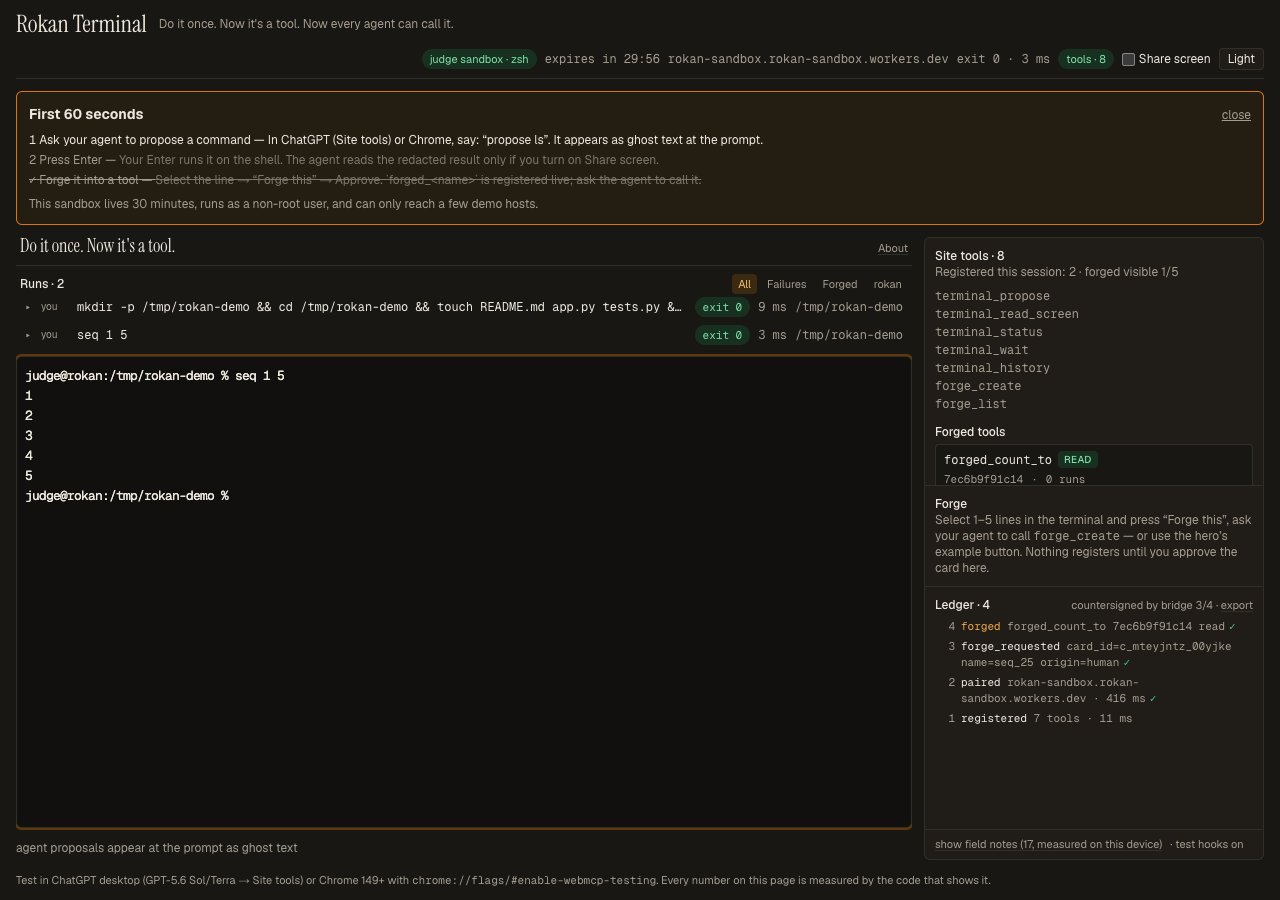
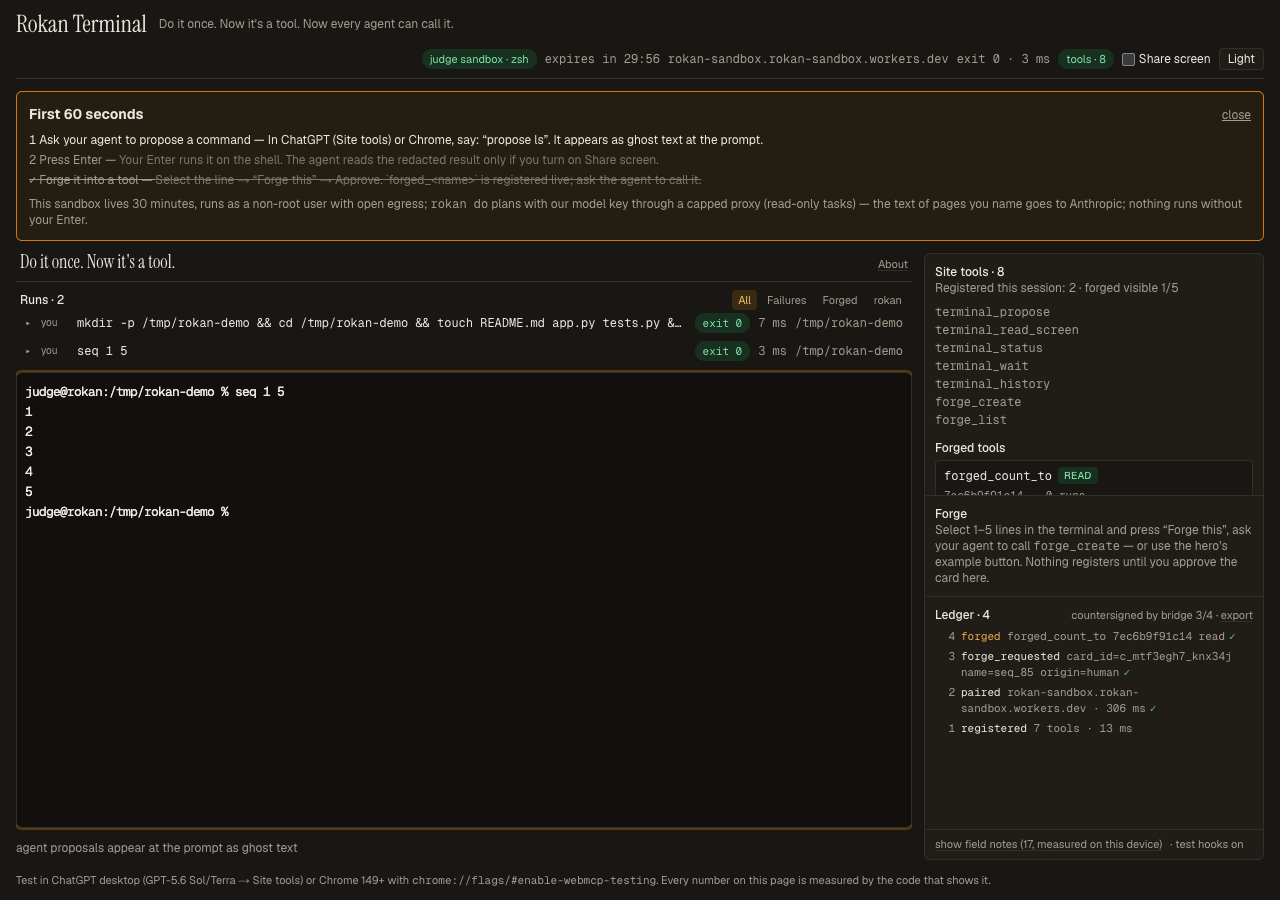
docs(evidence): judge-mode demo shots from the fixed build; suite 14/15
Claude-Session: https://claude.ai/code/session_01RJtGvkhmwd2qdLot5U3zBz

Changed region(s): [[0.0, 0.2178, 0.9688, 0.8089], [0.0, 0.5289, 0.1875, 0.5911]]

diff --git a/docs/PROGRESS.md b/docs/PROGRESS.md
@@ -23,6 +23,14 @@ abstains without the key — **not yet a policy proof**; it is one once the key 
   learned: a bare heading ("main heading at httpbin.org/html") has no label→value shape for `read_value`, and
   www.cloudflarestatus.com's markup carries none of the standard status phrases — the open-net case now asks
   the pypi question.
+- **Judge suite on the new fleet after the OSC fix: 14/15** (`trace` kept); the only miss is `open-net` = the key.
+  `no-disclosure` passes in-suite again (regex fix). The 9 `docs/evidence/demo/beat*.png` are regenerated by that
+  run from the fixed build (run feed names human commands; tour end-state; countersigned ledger). A real-Chrome
+  stranger run on the new fleet: paired **323 ms**; the judge's shell shows `ANTHROPIC_BASE_URL=…/api/model/<sid>`,
+  `ANTHROPIC_API_KEY=judge-sandbox-proxy`, `ROKAN_TASK_CLASSES=read_value,read_list`; an unseeded `rokan do`
+  reaches the proxy and renders our generic 503 as an honest `abstained_planner_unavailable` (13.6 s incl. the
+  SDK's retry — generic upstream errors now carry `x-should-retry:false`, `467a2c3`). Evidence in
+  `docs/evidence/stranger/2026-08-29-prod-open-net-env-and-honest-abstain.jpg`.
 
 ## Build log — Engineer #4 (2026-08-29 evening, OPEN-NET JUDGE SANDBOX — plan `bright-squishing-corbato`)
 **Goal (Arav): a judge can `rokan do "<anything>"` on any site on the open web inside the sandbox — a product, not a
